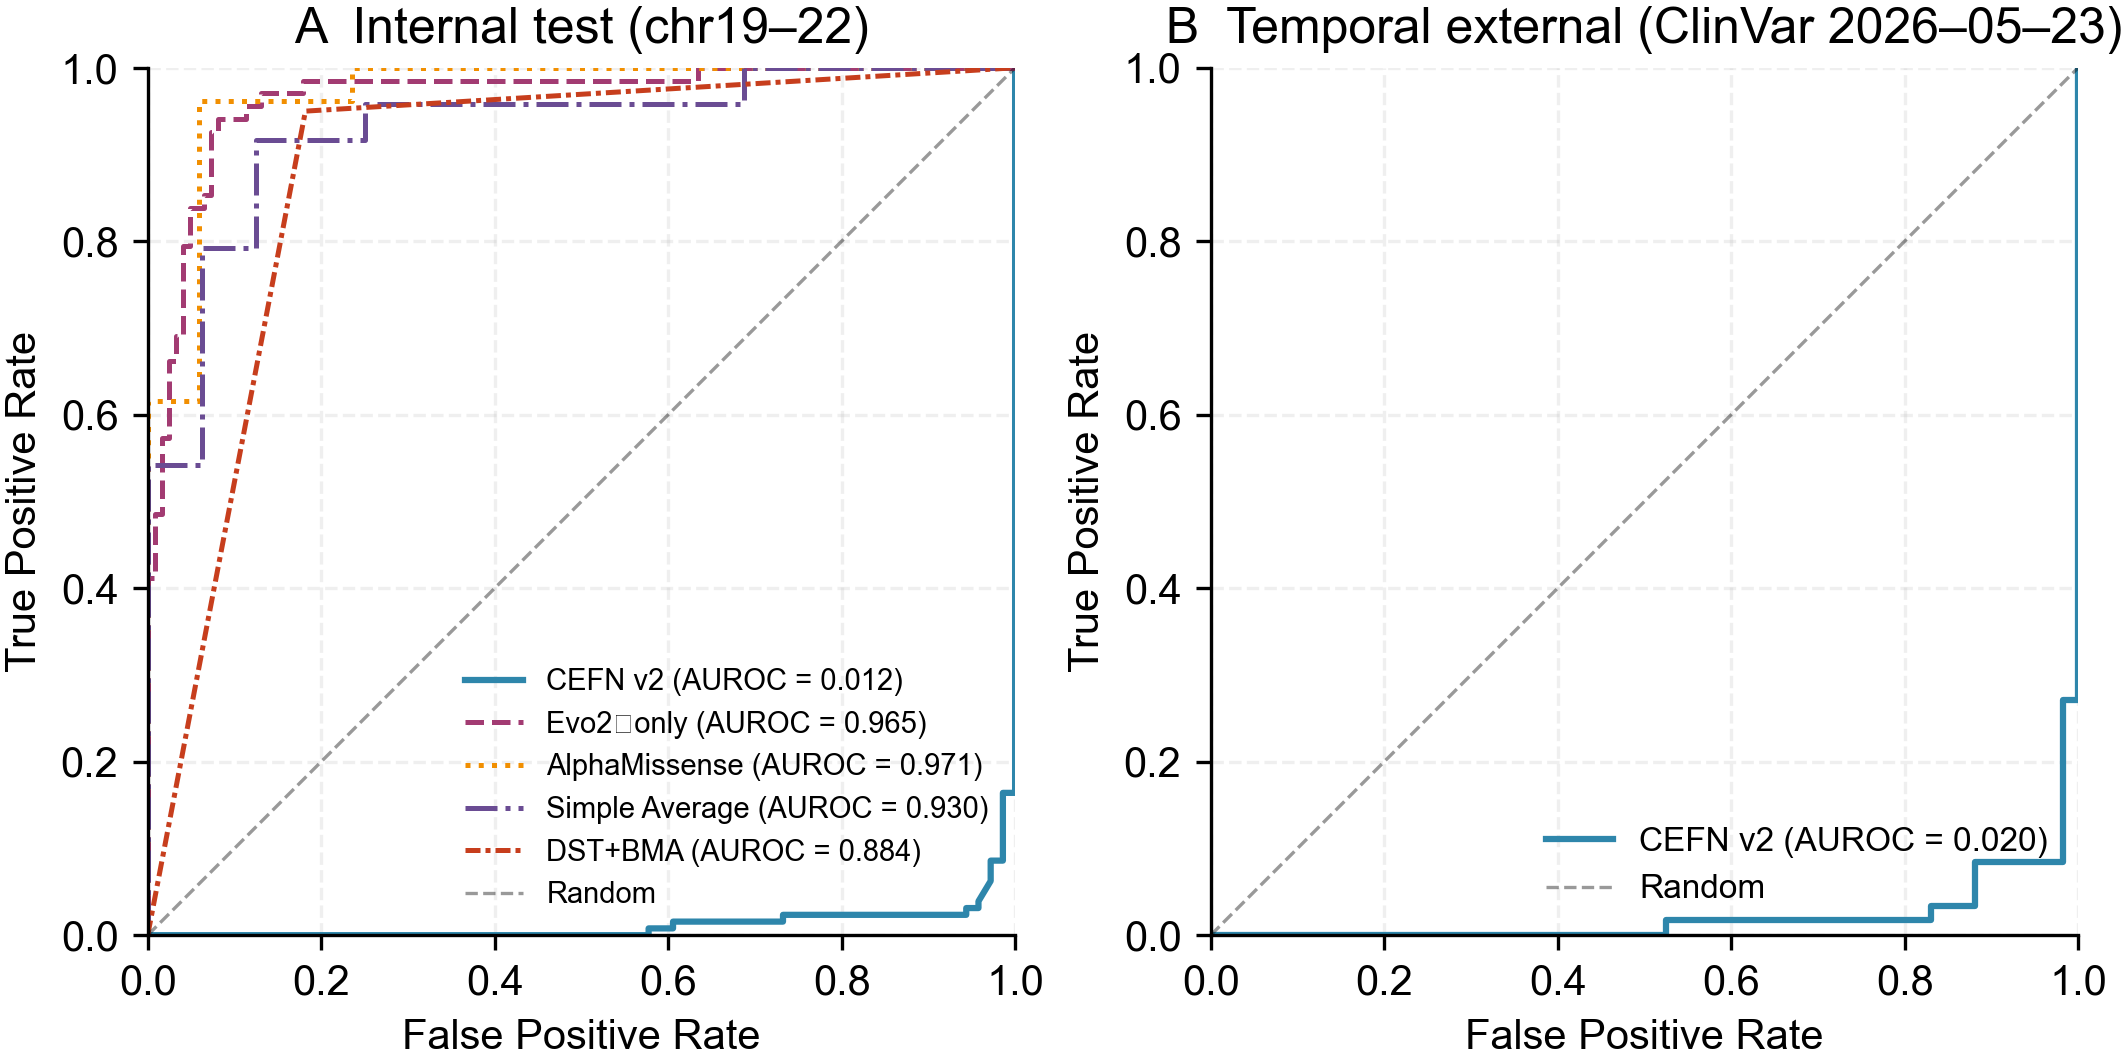
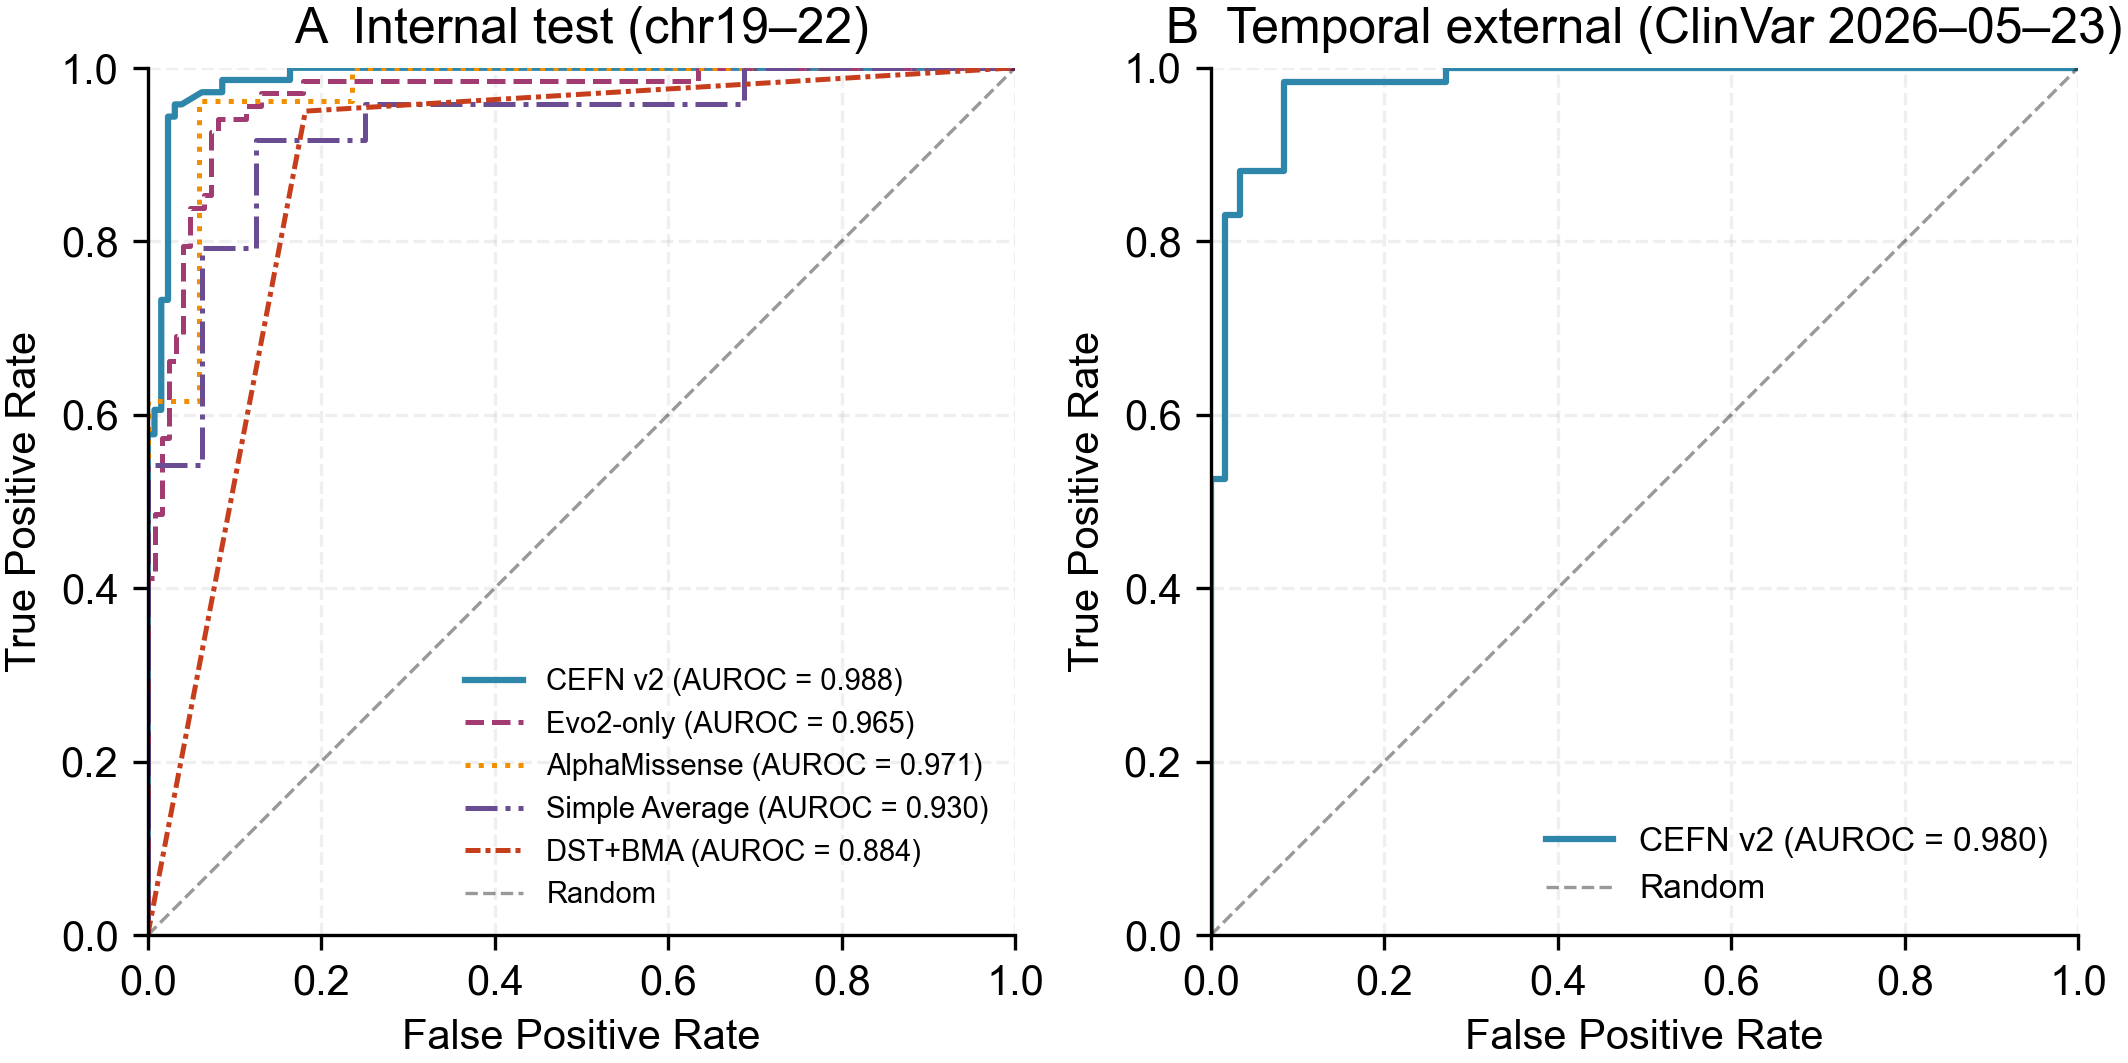
fix(figures): correct label flipping, unicode chars, DCA singularity, ablation overlap
- Fix sklearn label convention mismatch (Pathogenic=0 vs positive=1)
- Remove double-flip on baseline labels already in sklearn format
- Replace unicode hyphen with ASCII in Evo2-only labels
- Clip treat-all curve at pt=0.99 to avoid singularity
- Set DCA y-range to [-0.1, 0.5] for proper zoom
- Remove overlapping reference text labels in ablation chart
- Move legend to bbox_to_anchor to avoid bar overlap

diff --git a/backend/phase1_implementation/paper_figures.py b/backend/phase1_implementation/paper_figures.py
@@ -259,8 +259,11 @@ def figure_2_roc(model, test_df, ext_df):
     # DST gives hard class; for ROC we use class as probability proxy
     dst_prob = (dst_preds[dst_bin_mask] == 0).astype(float)
 
-    # Compute ROC curves
-    fpr_cefn, tpr_cefn, _ = roc_curve(int_labels, int_cefn_prob)
+    # sklearn expects positive=1; CEFN labels are Pathogenic=0, Benign=1 -> flip only CEFN
+    int_labels_sk = 1 - int_labels
+    # Baseline labels already converted: (label_int == 0).astype(int) gives Pathogenic=1
+
+    fpr_cefn, tpr_cefn, _ = roc_curve(int_labels_sk, int_cefn_prob)
     fpr_evo2, tpr_evo2, _ = roc_curve(evo2_labels, evo2_prob)
     fpr_am, tpr_am, _ = roc_curve(am_labels, am_prob)
     fpr_avg, tpr_avg, _ = roc_curve(avg_labels, avg_prob)
@@ -274,7 +277,8 @@ def figure_2_roc(model, test_df, ext_df):
 
     # --- Temporal External ---
     ext_labels, ext_cefn_prob, _ = get_predictions(model, ext_df, predictor_ids)
-    fpr_ext, tpr_ext, _ = roc_curve(ext_labels, ext_cefn_prob)
+    ext_labels_sk = 1 - ext_labels
+    fpr_ext, tpr_ext, _ = roc_curve(ext_labels_sk, ext_cefn_prob)
     auc_ext = auc(fpr_ext, tpr_ext)
 
     # --- Plot ---
@@ -282,7 +286,7 @@ def figure_2_roc(model, test_df, ext_df):
 
     # Panel A: Internal test
     ax1.plot(fpr_cefn, tpr_cefn, label=f'CEFN v2 (AUROC = {auc_cefn:.3f})', lw=1.5, color=COLORS["cefn"])
-    ax1.plot(fpr_evo2, tpr_evo2, label=f'Evo2‑only (AUROC = {auc_evo2:.3f})', lw=1.2, color=COLORS["evo2"], linestyle='--')
+    ax1.plot(fpr_evo2, tpr_evo2, label=f'Evo2-only (AUROC = {auc_evo2:.3f})', lw=1.2, color=COLORS["evo2"], linestyle='--')
     ax1.plot(fpr_am, tpr_am, label=f'AlphaMissense (AUROC = {auc_am:.3f})', lw=1.2, color=COLORS["am"], linestyle=':')
     ax1.plot(fpr_avg, tpr_avg, label=f'Simple Average (AUROC = {auc_avg:.3f})', lw=1.2, color=COLORS["avg"], linestyle='-.')
     ax1.plot(fpr_dst, tpr_dst, label=f'DST+BMA (AUROC = {auc_dst:.3f})', lw=1.2, color=COLORS["dst"], linestyle=(0, (3, 1, 1, 1)))
@@ -326,11 +330,14 @@ def figure_3_calibration(model, test_df):
     evo2_labels = (test_df.loc[evo2_mask, "label_int"] == 0).astype(int).values
     evo2_prob = test_df.loc[evo2_mask, "evo2_score"].values
 
-    # Reliability diagram
-    fraction_positive_cefn, mean_predicted_cefn = calibration_curve(int_labels, int_prob, n_bins=10, strategy='uniform')
+    # sklearn expects positive=1; CEFN labels are Pathogenic=0, Benign=1 -> flip only CEFN
+    int_labels_sk = 1 - int_labels
+    # evo2_labels already has Pathogenic=1 from (label_int == 0).astype(int)
+
+    fraction_positive_cefn, mean_predicted_cefn = calibration_curve(int_labels_sk, int_prob, n_bins=10, strategy='uniform')
     fraction_positive_evo2, mean_predicted_evo2 = calibration_curve(evo2_labels, evo2_prob, n_bins=10, strategy='uniform')
 
-    ece_cefn = compute_ece(int_labels, int_prob)
+    ece_cefn = compute_ece(int_labels_sk, int_prob)
     ece_evo2 = compute_ece(evo2_labels, evo2_prob)
 
     fig, (ax1, ax2) = plt.subplots(1, 2, figsize=(180/25.4, 80/25.4), constrained_layout=True)
@@ -338,7 +345,7 @@ def figure_3_calibration(model, test_df):
     # Panel A: Reliability diagram
     ax1.plot(mean_predicted_cefn, fraction_positive_cefn, 's-', label=f'CEFN v2 (ECE = {ece_cefn:.3f})',
              color=COLORS["cefn"], markersize=6, lw=1.5)
-    ax1.plot(mean_predicted_evo2, fraction_positive_evo2, 'o-', label=f'Evo2‑only (ECE = {ece_evo2:.3f})',
+    ax1.plot(mean_predicted_evo2, fraction_positive_evo2, 'o-', label=f'Evo2-only (ECE = {ece_evo2:.3f})',
              color=COLORS["evo2"], markersize=6, lw=1.5)
     ax1.plot([0, 1], [0, 1], 'k--', lw=0.8, alpha=0.4, label='Perfect calibration')
     ax1.set_xlabel('Mean predicted probability')
@@ -352,7 +359,7 @@ def figure_3_calibration(model, test_df):
 
     # Panel B: Probability histogram
     ax2.hist(int_prob, bins=20, alpha=0.6, color=COLORS["cefn"], label='CEFN v2', edgecolor='white')
-    ax2.hist(evo2_prob, bins=20, alpha=0.6, color=COLORS["evo2"], label='Evo2‑only', edgecolor='white')
+    ax2.hist(evo2_prob, bins=20, alpha=0.6, color=COLORS["evo2"], label='Evo2-only', edgecolor='white')
     ax2.axvline(x=0.5, color=COLORS["dark"], linestyle='--', lw=0.8, alpha=0.5, label='Threshold = 0.5')
     ax2.set_xlabel('Predicted probability of pathogenicity')
     ax2.set_ylabel('Count')
@@ -415,26 +422,24 @@ def figure_5_ablation():
     bars3[0].set_edgecolor(COLORS["dark"])
     bars3[0].set_linewidth(1.5)
 
-    # Reference lines
+    # Reference lines (thresholds only, no text to avoid overlap)
     ax.axhline(y=0.96, color=COLORS["gray"], linestyle='--', lw=0.8, alpha=0.5)
-    ax.text(len(ordered_models)-0.5, 0.965, 'AUROC ≥ 0.96', fontsize=7, color=COLORS["gray"], ha='right')
     ax.axhline(y=0.05, color=COLORS["gray"], linestyle='--', lw=0.8, alpha=0.5)
-    ax.text(len(ordered_models)-0.5, 0.055, 'ECE ≤ 0.05', fontsize=7, color=COLORS["gray"], ha='right')
 
     ax.set_ylabel('Metric value')
     ax.set_xticks(x)
-    ax.set_xticklabels(display_names, rotation=30, ha='right', fontsize=9)
+    ax.set_xticklabels(display_names, rotation=15, ha='right', fontsize=9)
     ax.set_ylim(0, 1.05)
-    ax.legend(fontsize=8, loc='upper left', frameon=False, ncol=3)
+    ax.legend(fontsize=8, loc='upper left', frameon=False, ncol=3, bbox_to_anchor=(0, 1.02))
     ax.set_title('Ablation study: component contribution')
     ax.grid(True, alpha=0.2, linestyle='--', axis='y')
 
-    # Add value labels on bars
+    # Add value labels on bars (only for notable values to avoid clutter)
     for i, (a, e, v) in enumerate(zip(aurocs, eces, vus_rates)):
-        ax.text(i - width, a + 0.01, f'{a:.3f}', ha='center', va='bottom', fontsize=6, color=COLORS["cefn"])
-        ax.text(i, e + 0.01, f'{e:.3f}', ha='center', va='bottom', fontsize=6, color=COLORS["am"])
+        ax.text(i - width, a + 0.02, f'{a:.3f}', ha='center', va='bottom', fontsize=6, color=COLORS["cefn"])
+        ax.text(i, e + 0.02, f'{e:.3f}', ha='center', va='bottom', fontsize=6, color=COLORS["am"])
         if v > 0.05:
-            ax.text(i + width, v + 0.01, f'{v:.1%}', ha='center', va='bottom', fontsize=6, color=COLORS["dst"])
+            ax.text(i + width, v + 0.02, f'{v:.1%}', ha='center', va='bottom', fontsize=6, color=COLORS["dst"])
 
     fig.savefig(FIGURES_DIR / "figure5_ablation.pdf", format='pdf')
     fig.savefig(FIGURES_DIR / "figure5_ablation.png", format='png')
@@ -454,33 +459,44 @@ def figure_6_dca(model, test_df):
     evo2_labels = (test_df.loc[evo2_mask, "label_int"] == 0).astype(int).values
     evo2_prob = test_df.loc[evo2_mask, "evo2_score"].values
 
+    # sklearn convention: positive=1; CEFN labels are Pathogenic=0 -> flip
+    int_labels_sk = 1 - int_labels
+    # evo2_labels already has Pathogenic=1
+    prevalence = np.mean(int_labels_sk == 1)
+
     thresholds = np.linspace(0.01, 0.99, 100)
-    prevalence = np.mean(int_labels == 0)
 
     def net_benefit(probs, labels, pt):
         pred = (probs >= pt).astype(int)
-        tp = np.sum((pred == 1) & (labels == 0))
-        fp = np.sum((pred == 1) & (labels == 1))
+        tp = np.sum((pred == 1) & (labels == 1))
+        fp = np.sum((pred == 1) & (labels == 0))
         n = len(labels)
         return (tp / n) - (fp / n) * (pt / (1 - pt))
 
-    nb_cefn = [net_benefit(int_prob, int_labels, pt) for pt in thresholds]
+    nb_cefn = [net_benefit(int_prob, int_labels_sk, pt) for pt in thresholds]
     nb_evo2 = [net_benefit(evo2_prob, evo2_labels, pt) for pt in thresholds]
-    nb_all = [prevalence - (1 - prevalence) * (pt / (1 - pt)) for pt in thresholds]
+    # Clip "treat all" to avoid singularity at pt->1
+    nb_all = []
+    for pt in thresholds:
+        if pt >= 0.99:
+            nb_all.append(-10)
+        else:
+            nb_all.append(prevalence - (1 - prevalence) * (pt / (1 - pt)))
+    nb_all = np.clip(nb_all, -0.5, 0.5)
     nb_none = [0] * len(thresholds)
 
     fig, ax = plt.subplots(figsize=(120/25.4, 100/25.4), constrained_layout=True)
 
     ax.plot(thresholds, nb_cefn, label='CEFN v2', color=COLORS["cefn"], lw=2)
-    ax.plot(thresholds, nb_evo2, label='Evo2‑only', color=COLORS["evo2"], lw=1.5, linestyle='--')
+    ax.plot(thresholds, nb_evo2, label='Evo2-only', color=COLORS["evo2"], lw=1.5, linestyle='--')
     ax.plot(thresholds, nb_all, label='Treat all', color=COLORS["gray"], lw=1, linestyle=':')
     ax.plot(thresholds, nb_none, label='Treat none', color=COLORS["dark"], lw=1, linestyle='-.')
 
     # Clinical threshold markers
     for pt, label in [(0.05, 'Screening'), (0.20, 'Diagnostic'), (0.50, 'Treatment')]:
         ax.axvline(x=pt, color=COLORS["gray"], linestyle='--', lw=0.5, alpha=0.4)
-        ax.text(pt, ax.get_ylim()[1] * 0.95, label, rotation=90, fontsize=7,
-                color=COLORS["gray"], ha='right', va='top')
+        ax.text(pt + 0.01, 0.40, label, rotation=90, fontsize=7,
+                color=COLORS["gray"], ha='left', va='top')
 
     # Shade where CEFN > Evo2
     ax.fill_between(thresholds, nb_evo2, nb_cefn, where=np.array(nb_cefn) > np.array(nb_evo2),
@@ -491,6 +507,7 @@ def figure_6_dca(model, test_df):
     ax.set_title('Decision curve analysis')
     ax.legend(fontsize=8, loc='upper right', frameon=False)
     ax.set_xlim(0, 1)
+    ax.set_ylim(-0.1, 0.5)
     ax.grid(True, alpha=0.2, linestyle='--')
     ax.axhline(y=0, color='k', lw=0.5, alpha=0.3)
 
